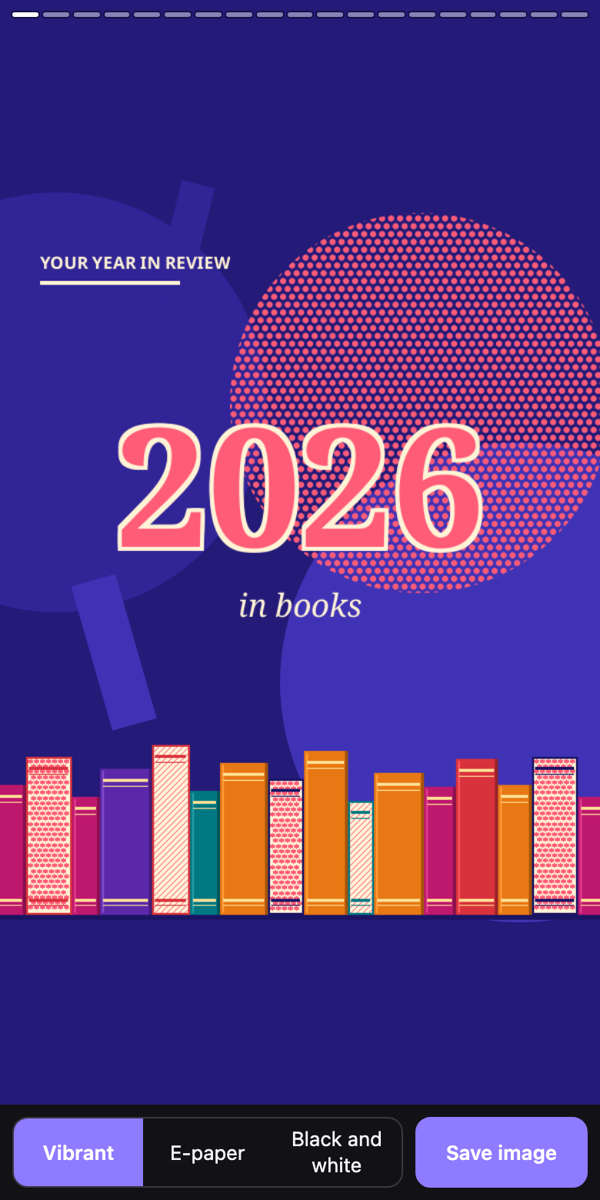
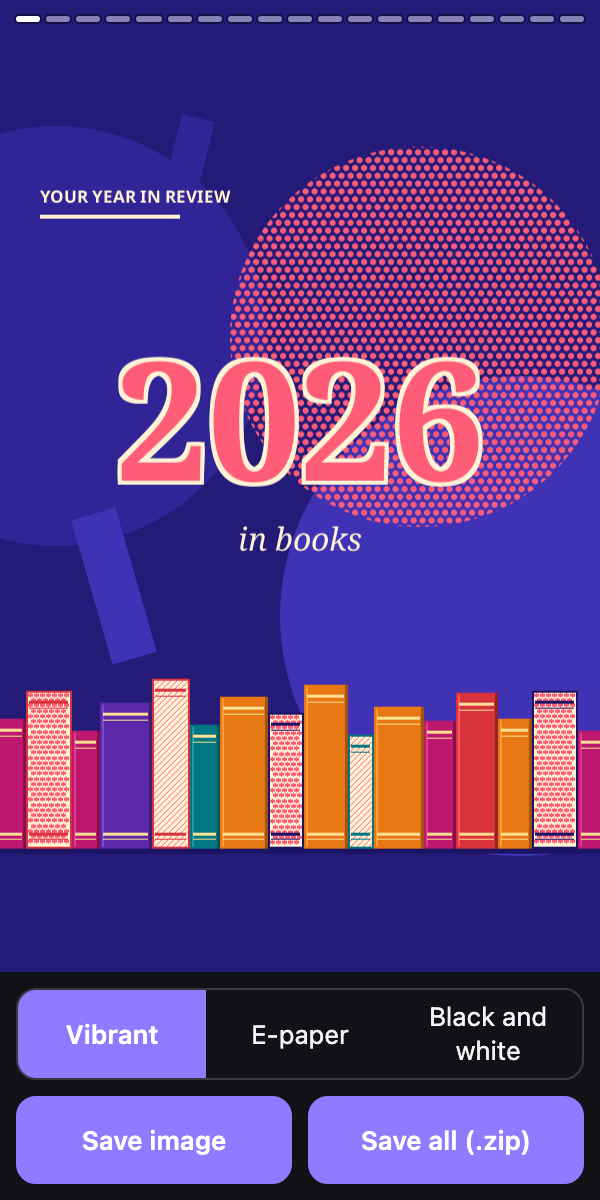
feat(share): add save all as zip and double flash option

diff --git a/assets/share/app.js b/assets/share/app.js
@@ -143,10 +143,76 @@
       ctx.drawImage(image, 0, MARGIN, STORY_W, STORY_H - 2 * MARGIN);
       return new Promise(function (resolve, reject) {
         canvas.toBlob(function (blob) {
+          // Safari holds on to the memory of a canvas until it is emptied, which adds up over a whole deck.
+          canvas.width = canvas.height = 0;
           if (blob) { resolve(blob); } else { reject(new Error("blob")); }
         }, "image/png");
       });
     });
+  }
+
+  var CRC_TABLE = (function () {
+    var table = new Uint32Array(256);
+    for (var n = 0; n < 256; n += 1) {
+      var c = n;
+      for (var k = 0; k < 8; k += 1) { c = c & 1 ? 0xedb88320 ^ (c >>> 1) : c >>> 1; }
+      table[n] = c >>> 0;
+    }
+    return table;
+  })();
+
+  function crc32(bytes) {
+    var c = 0xffffffff;
+    for (var i = 0; i < bytes.length; i += 1) { c = CRC_TABLE[(c ^ bytes[i]) & 0xff] ^ (c >>> 8); }
+    return (c ^ 0xffffffff) >>> 0;
+  }
+
+  // The fields a local header and a central directory entry have in common. No compression: PNG already is.
+  function zipFields(file, stamp) {
+    var view = new DataView(new ArrayBuffer(26));
+    view.setUint16(0, 20, true);
+    view.setUint16(4, 0, true);
+    view.setUint16(6, stamp.time, true);
+    view.setUint16(8, stamp.date, true);
+    view.setUint32(10, file.crc, true);
+    view.setUint32(14, file.blob.size, true);
+    view.setUint32(18, file.blob.size, true);
+    view.setUint16(22, file.name.length, true);
+    return view.buffer;
+  }
+
+  function zipRecord(signature, length) {
+    var view = new DataView(new ArrayBuffer(length));
+    view.setUint32(0, signature, true);
+    return view;
+  }
+
+  // files: { name (ASCII), blob, crc }. The images stay blobs, so the browser does not need them all in memory.
+  function zipBlob(files) {
+    var now = new Date();
+    var stamp = {
+      time: now.getHours() << 11 | now.getMinutes() << 5 | now.getSeconds() >> 1,
+      date: (now.getFullYear() - 1980) << 9 | (now.getMonth() + 1) << 5 | now.getDate(),
+    };
+    var encoder = new TextEncoder();
+    var body = [], directory = [], offset = 0, directorySize = 0;
+    files.forEach(function (file) {
+      var name = encoder.encode(file.name), fields = zipFields(file, stamp);
+      body.push(zipRecord(0x04034b50, 4), fields, name, file.blob);
+      var entry = zipRecord(0x02014b50, 6);
+      entry.setUint16(4, 20, true);
+      var tail = new DataView(new ArrayBuffer(14));
+      tail.setUint32(10, offset, true);
+      directory.push(entry, fields, tail, name);
+      offset += 30 + name.length + file.blob.size;
+      directorySize += 46 + name.length;
+    });
+    var end = zipRecord(0x06054b50, 22);
+    end.setUint16(8, files.length, true);
+    end.setUint16(10, files.length, true);
+    end.setUint32(12, directorySize, true);
+    end.setUint32(16, offset, true);
+    return new Blob(body.concat(directory, [end]), { type: "application/zip" });
   }
 
   function download(blob, name) {
@@ -177,20 +243,52 @@
     }
   }
 
-  function save() {
+  function setBusy(on) {
+    busy = on;
+    ui.save.disabled = ui.saveAll.disabled = on;
+    Array.prototype.forEach.call(ui.seg.children, function (button) { button.disabled = on; });
+  }
+
+  function saving(task) {
     if (busy) { return; }
-    var deck = decks[theme], position = index;
-    busy = true;
-    ui.save.disabled = true;
-    setStatus(text().loading);
-    storyBlob(deck, position).then(function (blob) {
-      download(blob, imageName(deck, position));
+    setBusy(true);
+    task().then(function () {
       setStatus(text().saved, true);
     }).catch(function () {
       setStatus(text().failed, true);
     }).then(function () {
-      busy = false;
-      ui.save.disabled = false;
+      setBusy(false);
+    });
+  }
+
+  function save() {
+    var deck = decks[theme], position = index;
+    saving(function () {
+      setStatus(text().loading);
+      return storyBlob(deck, position).then(function (blob) {
+        download(blob, imageName(deck, position));
+      });
+    });
+  }
+
+  // One at a time, because the device draws each image when asked. What it already drew comes back at once,
+  // so trying again after a failure continues where it stopped.
+  function saveAll() {
+    var deck = decks[theme], total = deck.cards.length, files = [];
+    function collect(position) {
+      if (position === total) { return Promise.resolve(); }
+      setStatus(text().loading_all.replace("{done}", position + 1).replace("{total}", total));
+      return storyBlob(deck, position).then(function (blob) {
+        return blob.arrayBuffer().then(function (buffer) {
+          files.push({ name: imageName(deck, position), blob: blob, crc: crc32(new Uint8Array(buffer)) });
+          return collect(position + 1);
+        });
+      });
+    }
+    saving(function () {
+      return collect(0).then(function () {
+        download(zipBlob(files), "book_rewind_" + deck.year + "_" + deck.theme + ".zip");
+      });
     });
   }
 
@@ -219,16 +317,17 @@
     ui.scene.textContent = "";
     ui.scene.appendChild(sceneSvg(card));
     ui.image.removeAttribute("src");
-    setStatus(text().loading);
+    // While saving, the status belongs to the progress, and the card can still be flipped through.
+    if (!busy) { setStatus(text().loading); }
     var position = index, shown = theme;
     loadImage(layerUrl(shown, position, "preview")).then(function (image) {
       if (token !== showToken) { return; }
       ui.image.src = image.src;
-      setStatus("");
-      // One at a time ahead of the reader, because the Kindle draws them when asked.
+      if (!busy) { setStatus(""); }
+      // One at a time ahead of the reader, because the device draws them when asked.
       if (position + 1 < deck.cards.length) { loadImage(layerUrl(shown, position + 1, "preview")).catch(function () {}); }
     }).catch(function () {
-      if (token === showToken) { setStatus(text().failed); }
+      if (token === showToken && !busy) { setStatus(text().failed); }
     });
     renderBars(deck);
   }
@@ -289,7 +388,10 @@
     ui.save = el("button", "save", t.save);
     ui.save.type = "button";
     ui.save.addEventListener("click", save);
-    controls.append(ui.seg, ui.save);
+    ui.saveAll = el("button", "save", t.save_all);
+    ui.saveAll.type = "button";
+    ui.saveAll.addEventListener("click", saveAll);
+    controls.append(ui.seg, ui.save, ui.saveAll);
     app.append(ui.stage, controls);
     document.addEventListener("keydown", function (e) {
       if (e.key === "ArrowRight") { go(1); }

diff --git a/assets/share/style.css b/assets/share/style.css
@@ -23,11 +23,11 @@ button:focus-visible{outline:2px solid var(--accent);outline-offset:2px}
 .hit.right{right:0;width:67%}
 .status{position:absolute;left:50%;bottom:12px;transform:translateX(-50%);max-width:88%;background:rgba(0,0,0,.72);color:#fff;font-size:13px;padding:6px 12px;border-radius:14px;text-align:center;pointer-events:none}
 .status:empty{display:none}
-.controls{flex:none;display:flex;gap:8px;align-items:stretch;padding:8px 8px calc(8px + env(safe-area-inset-bottom))}
-.seg{flex:1 1 auto;min-width:0;display:flex;border:1px solid var(--line);border-radius:10px;overflow:hidden}
+.controls{flex:none;display:flex;flex-wrap:wrap;gap:8px;align-items:stretch;padding:8px 8px calc(8px + env(safe-area-inset-bottom))}
+.seg{flex:1 1 100%;min-width:0;display:flex;border:1px solid var(--line);border-radius:10px;overflow:hidden}
 .seg button{flex:1 1 0;min-width:0;border:0;border-radius:0;background:transparent;padding:4px 3px;font-size:13px}
 .seg button[aria-pressed=true]{background:var(--accent);color:#fff;font-weight:600}
-.save{flex:none;width:30%;max-width:170px;background:var(--accent);border-color:var(--accent);color:#fff;font-weight:600;font-size:13px;padding:4px 6px}
+.save{flex:1 1 0;min-width:0;background:var(--accent);border-color:var(--accent);color:#fff;font-weight:600;font-size:13px;padding:4px 6px}
 g{transform-box:view-box;animation-timing-function:ease-in-out;animation-iteration-count:infinite;animation-direction:alternate}
 .m-none{animation:none}
 .m-drift-x{animation-name:driftx}.m-drift-x-rev{animation-name:driftxr}.m-drift-y{animation-name:drifty}

diff --git a/docs/design.md b/docs/design.md
@@ -53,7 +53,7 @@ The print language of halftone, hatching and speed lines, in three themes that s
 - **Fixed art** lives in `assets/cards/600` and `assets/cards/1200`, with no text, so it works in every language. Each file holds three masks in its color channels: ink in red, the second tone in green and the inner fill in blue. What none of them covers is transparent. `Canvas:art` colors it with the theme and puts it over the background. It is generated by `python3 -I tools/make_card_art.py`, which needs Pillow.
 - **Data charts** (shelf, year map, clock, standing books, mountain, gauge and piles) are drawn in `ui/card_view.lua`, in 600x800 coordinates fitted to the screen.
 - **Color** goes through roles (`BLACK`, `WHITE`, `TEXT`, `BACKGROUND` and others), tables that the drawing code and the wildcards keep and that each card fills from its theme. `TextWidget` only draws in gray, so color text goes through a mask. A text box always goes through a mask, because it would paint its background over the drawing behind it.
-- **Refresh:** entering or leaving a card with a dark background redraws the whole panel, to avoid ghosting.
+- **Refresh:** every card redraws the whole panel with a flash. One flash can still leave the edges of the previous card, as seen on a basic Kindle, so the cover has a checkbox, only on e-ink screens, that clears the panel to white with one more flash before each card. It starts off, because a card change takes about twice as long, and it stays in KOReader's settings as `book_rewind_double_flash`. In the `eink` theme, the screen is marked as dithered, which is what makes KOReader use the color waveforms of the panel.
 - **Brand:** the icon is a ribbon bookmark with a rewind mark. `docs/brand/` has the icon and the README banner, and `docs/social-preview.png` is the image for the GitHub repository settings.
 
 ## Sharing
@@ -63,7 +63,8 @@ The device only draws each card without its background and sends the data of the
 1. The screen in `ui/share_screen.lua` starts a server on port 8643, in `share/server.lua`, and shows the QR code.
 2. The first device with the address waits for approval, on the screen.
 3. The page, in `assets/share/`, asks for `deck/<theme>`, the JSON of the backgrounds from `share/deck.lua`, and `layer/<theme>/<card>/preview`, a PNG of 600x800 with transparency.
-4. To save, it asks for `layer/<theme>/<card>/story`, of 1080x1440, and draws the background and the layer on a canvas of 1080x1920. Images are saved one at a time.
+4. To save, it asks for `layer/<theme>/<card>/story`, of 1080x1440, and draws the background and the layer on a canvas of 1080x1920.
+5. **Save all** does the same for every card, in order, and the browser packs the images into a zip with no compression, since PNG is already compressed. The device draws one layer at a time and never sees the zip. Layers already drawn come back from the cache, so trying again after a failure continues where it stopped.
 
 A layer is drawn when first asked for, while the interface waits, and kept in `cache/book_rewind_share/` until the screen closes. `CardView.paint_layer` draws in RGB32 with transparency, even for the gray theme.
 
@@ -88,7 +89,7 @@ The rules follow Book Drop, without anything that receives files. None of these 
 | Errors stay contained | An error in a request ends that connection only. The error goes to the KOReader log, without the request, which carries the code. |
 | After a crash | A marker file records that sharing started. If KOReader crashes with the screen open, the next start closes the port, lets the device sleep again and removes the images. |
 
-The page takes the whole screen of the phone: the card on top, with the progress over it, and one line below with the style and the save button. The background always moves, and the saved image has it still, without the progress.
+The page takes the whole screen of the phone: the card on top, with the progress over it, and two lines below: the style, then the buttons to save the image or all of them. The background always moves, and the saved image has it still, without the progress.
 
 ## Metrics
 

diff --git a/README_pt.md b/README_pt.md
@@ -93,7 +93,7 @@ Cada ano termina com um cartão que descreve como você lê. Vence o seu traço 
 </table>
 
 - **Escolha o estilo.** Vibrante, e-paper ou preto e branco, com fundos que se mexem.
-- **Salve o que está vendo.** As imagens vêm em tamanho de story, 1080 x 1920, prontas para postar.
+- **Salve uma ou todas.** As imagens vêm em tamanho de story, 1080 x 1920, prontas para postar, uma de cada vez ou todas juntas em um arquivo zip.
 
 > [!WARNING]
 > A conexão usa HTTP simples, porque um servidor local não tem certificado para oferecer. Alguém capturando o tráfego da mesma rede poderia ver a sua retrospectiva. Use o Wi-Fi de casa ou o hotspot do celular, não redes públicas.
@@ -150,6 +150,7 @@ As regras completas, com os limites de cada perfil, estão em [docs/design.md](d
 - Layout conferido no emulador em 600x800, 758x1024, 1072x1448 e 1264x1680.
 - Feito para telas sensíveis ao toque. Em aparelhos com teclas, as de página navegam e a de voltar fecha, mas trocar de ano e compartilhar exigem toque.
 - Sempre em retrato. Aberto em paisagem, ele gira a tela e restaura a rotação ao fechar.
+- Cada cartão pisca a tela uma vez. Se ainda aparecerem marcas do cartão anterior, o checkbox na capa faz a tela piscar duas vezes.
 
 ## Desenvolvimento
 

diff --git a/README.md b/README.md
@@ -94,7 +94,7 @@ Every year ends with a card that describes how you read. Your strongest trait wi
 </table>
 
 - **Choose a style.** Vibrant, e-paper or black and white, with backgrounds that move.
-- **Save what you see.** Images come in story size, 1080x1920, ready to post.
+- **Save one or all.** Images come in story size, 1080x1920, ready to post, one at a time or all together in a zip file.
 
 > [!WARNING]
 > The connection is plain HTTP, because a local server has no certificate to offer. Someone capturing traffic on the same network could see your recap. Use your home Wi-Fi or your phone's hotspot, not public networks.
@@ -151,6 +151,7 @@ The complete rules, including the thresholds of each profile, are in [docs/desig
 - Layout checked in the emulator at 600x800, 758x1024, 1072x1448 and 1264x1680.
 - Made for touchscreens. On devices with keys, the page keys navigate and the back key closes, but changing the year and sharing need touch.
 - Always in portrait. Opened in landscape, it rotates the screen and restores the rotation on exit.
+- Each card flashes the screen once. If you still see marks from the previous card, the checkbox on the cover makes it flash twice.
 
 ## Development
 

diff --git a/CHANGELOG.md b/CHANGELOG.md
@@ -1,5 +1,14 @@
 # Changelog
 
+## [1.3.0]
+
+- **Save all** on the share page saves every card together in a zip file.
+- Every card now redraws the whole screen with a flash, to reduce the ghost of the previous card.
+- A checkbox on the cover flashes the screen twice on each card, for screens where one flash still leaves marks.
+- On color e-ink, cards use the color modes of the screen, the same KOReader uses for covers.
+- Texts on the share page and screen say "e-reader" instead of "Kindle".
+- On the summary card, "Author" and "Month" are now "Top author" and "Best month".
+
 ## [1.2.0]
 
 - Three themes: gray for black and white screens, a palette tuned for color e-ink, and a vibrant one for phones. Your device picks its own.
